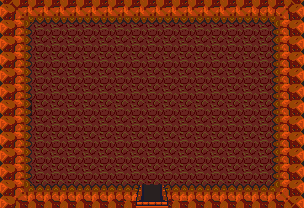
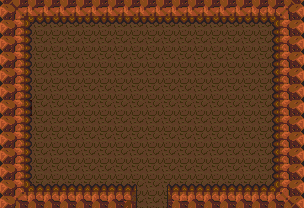
converting to exe

diff --git a/gameObjects/player.py b/gameObjects/player.py
@@ -576,18 +576,18 @@ class Player(Animated):
                     else:
                         return
                 elif self.running:
-                    if self.slowing:
-                        if event.key == pygame.K_z:
-                            #Stop running
-                            self.stop()
-                        elif event.key == pygame.K_RIGHT and self.runningDirection == 1:
-                            self.stop()
-                        elif event.key == pygame.K_UP and self.runningDirection == 2:
-                            self.stop()
-                        elif event.key == pygame.K_LEFT and self.runningDirection == 3:
-                            self.stop()
-                        elif event.key == pygame.K_DOWN and self.runningDirection == 0:
-                            self.stop()
+                    
+                    """ if event.key == pygame.K_z:
+                        #Stop running
+                        self.stop() """
+                    if event.key == pygame.K_RIGHT and self.runningDirection == 1:
+                        self.stop()
+                    elif event.key == pygame.K_UP and self.runningDirection == 2:
+                        self.stop()
+                    elif event.key == pygame.K_LEFT and self.runningDirection == 3:
+                        self.stop()
+                    elif event.key == pygame.K_DOWN and self.runningDirection == 0:
+                        self.stop()
                     
 
                 else:

diff --git a/UI/screenManager.py b/UI/screenManager.py
@@ -529,8 +529,7 @@ class ScreenManager(object):
             elif self.continuingGame:
                 if self.fade.frame == 8:
                     if not pygame.mixer.get_busy():
-                        self.game = Flame_7.getInstance()
-                        #self.game = Intro_1.getInstance()
+                        self.game = Flame_entrance.getInstance()
                         self.game.lockHealth()
                         self.game.initializeRoom()
                         self.state.startGame()

diff --git a/rooms/majestus.py b/rooms/majestus.py
@@ -1327,7 +1327,8 @@ class Flame_entrance(AbstractEngine):
                     elif b == self.trigger2:
                         self.transport(Grand_Chapel_L, 0)
                     elif b == self.trigger3:
-                        self.transportPos(Flame_dispensary, vec(16*9, 16*8))
+                        pass
+                        #self.transportPos(Flame_dispensary, vec(16*9, 16*8))
                     else:
                         self.player.handleCollision(b)
 

diff --git a/utils/constants.py b/utils/constants.py
@@ -100,7 +100,7 @@ INV = {
     ##Health, elements, arrows, currency
     "max_hp": 3,
     "shoot": True,
-    "hasBombo": True,
+    "hasBombo": False,
     "fire": True,
     "clap": True,
     "slash": True,
@@ -643,8 +643,7 @@ and they slaughter at will!&&\n\
 What a shame...&&\n",
 
 "flame_entrance_geemer2":
-"Oh shit!&&\n\
-You're a human!&&\n\
+"You're a human!&&\n\
 You guys don't eat your\n\
 cheeba like we do, right?\n\
 Humans have to smoke it!\n\

diff --git a/main.py b/main.py
@@ -9,7 +9,7 @@ def main():
     pygame.font.init()
 
     ##Set the screen up
-    flags = pygame.SCALED #| pygame.NOFRAME
+    flags = pygame.SCALED | pygame.NOFRAME
     screen = pygame.display.set_mode(list(map(int, UPSCALED)), flags=flags)
     drawSurface = pygame.Surface(list(map(int, RESOLUTION)))
     transparentSurface = drawSurface.subsurface(drawSurface.get_rect())

diff --git a/toDo.md b/toDo.md
@@ -1,9 +1,9 @@
 
 v0.1
 - [ ] finish scorching fields up to lavaKnight
-    - [ ] Bar (buy beer, 3 or 4 Geemers to talk to)
 - [ ] Intro cutscene
 - [ ] Remove del to quit
+- [ ] Title screen display bool
 - [ ] No frame
 
 
